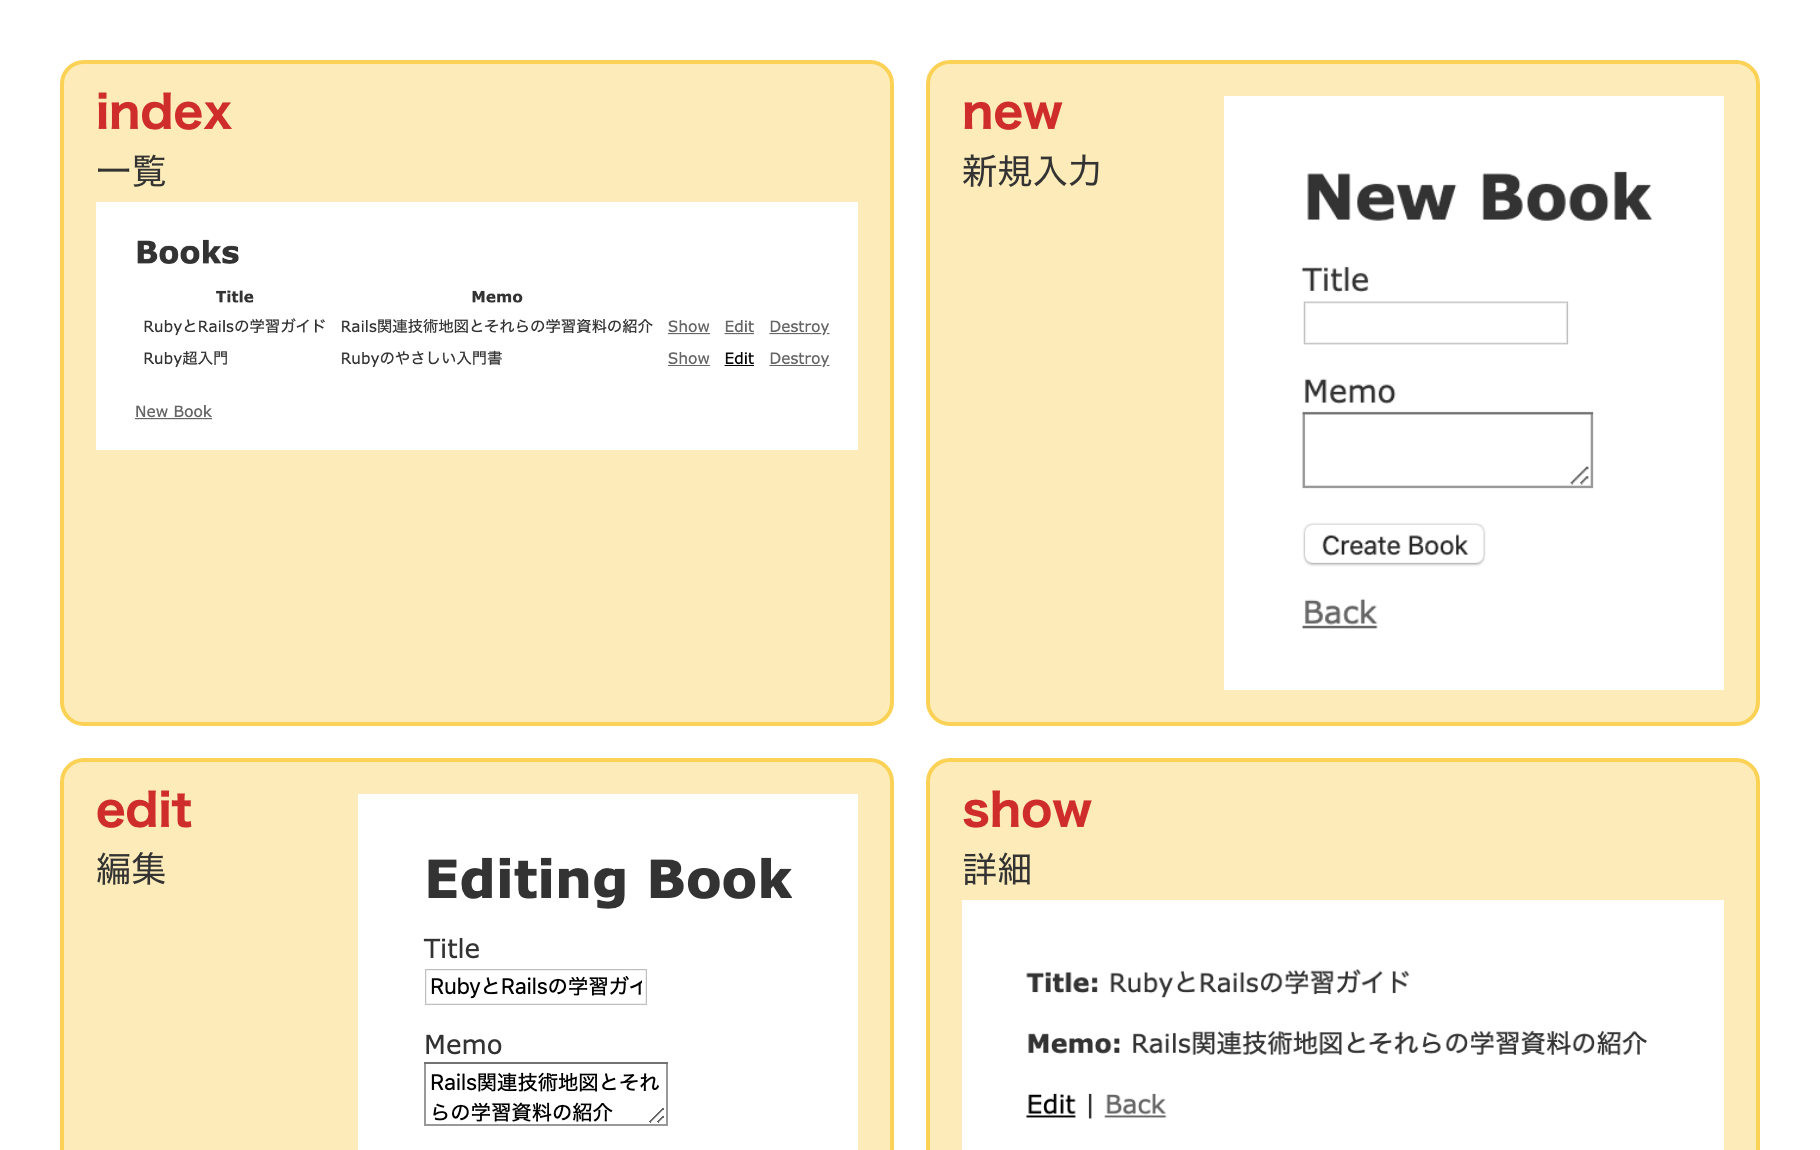
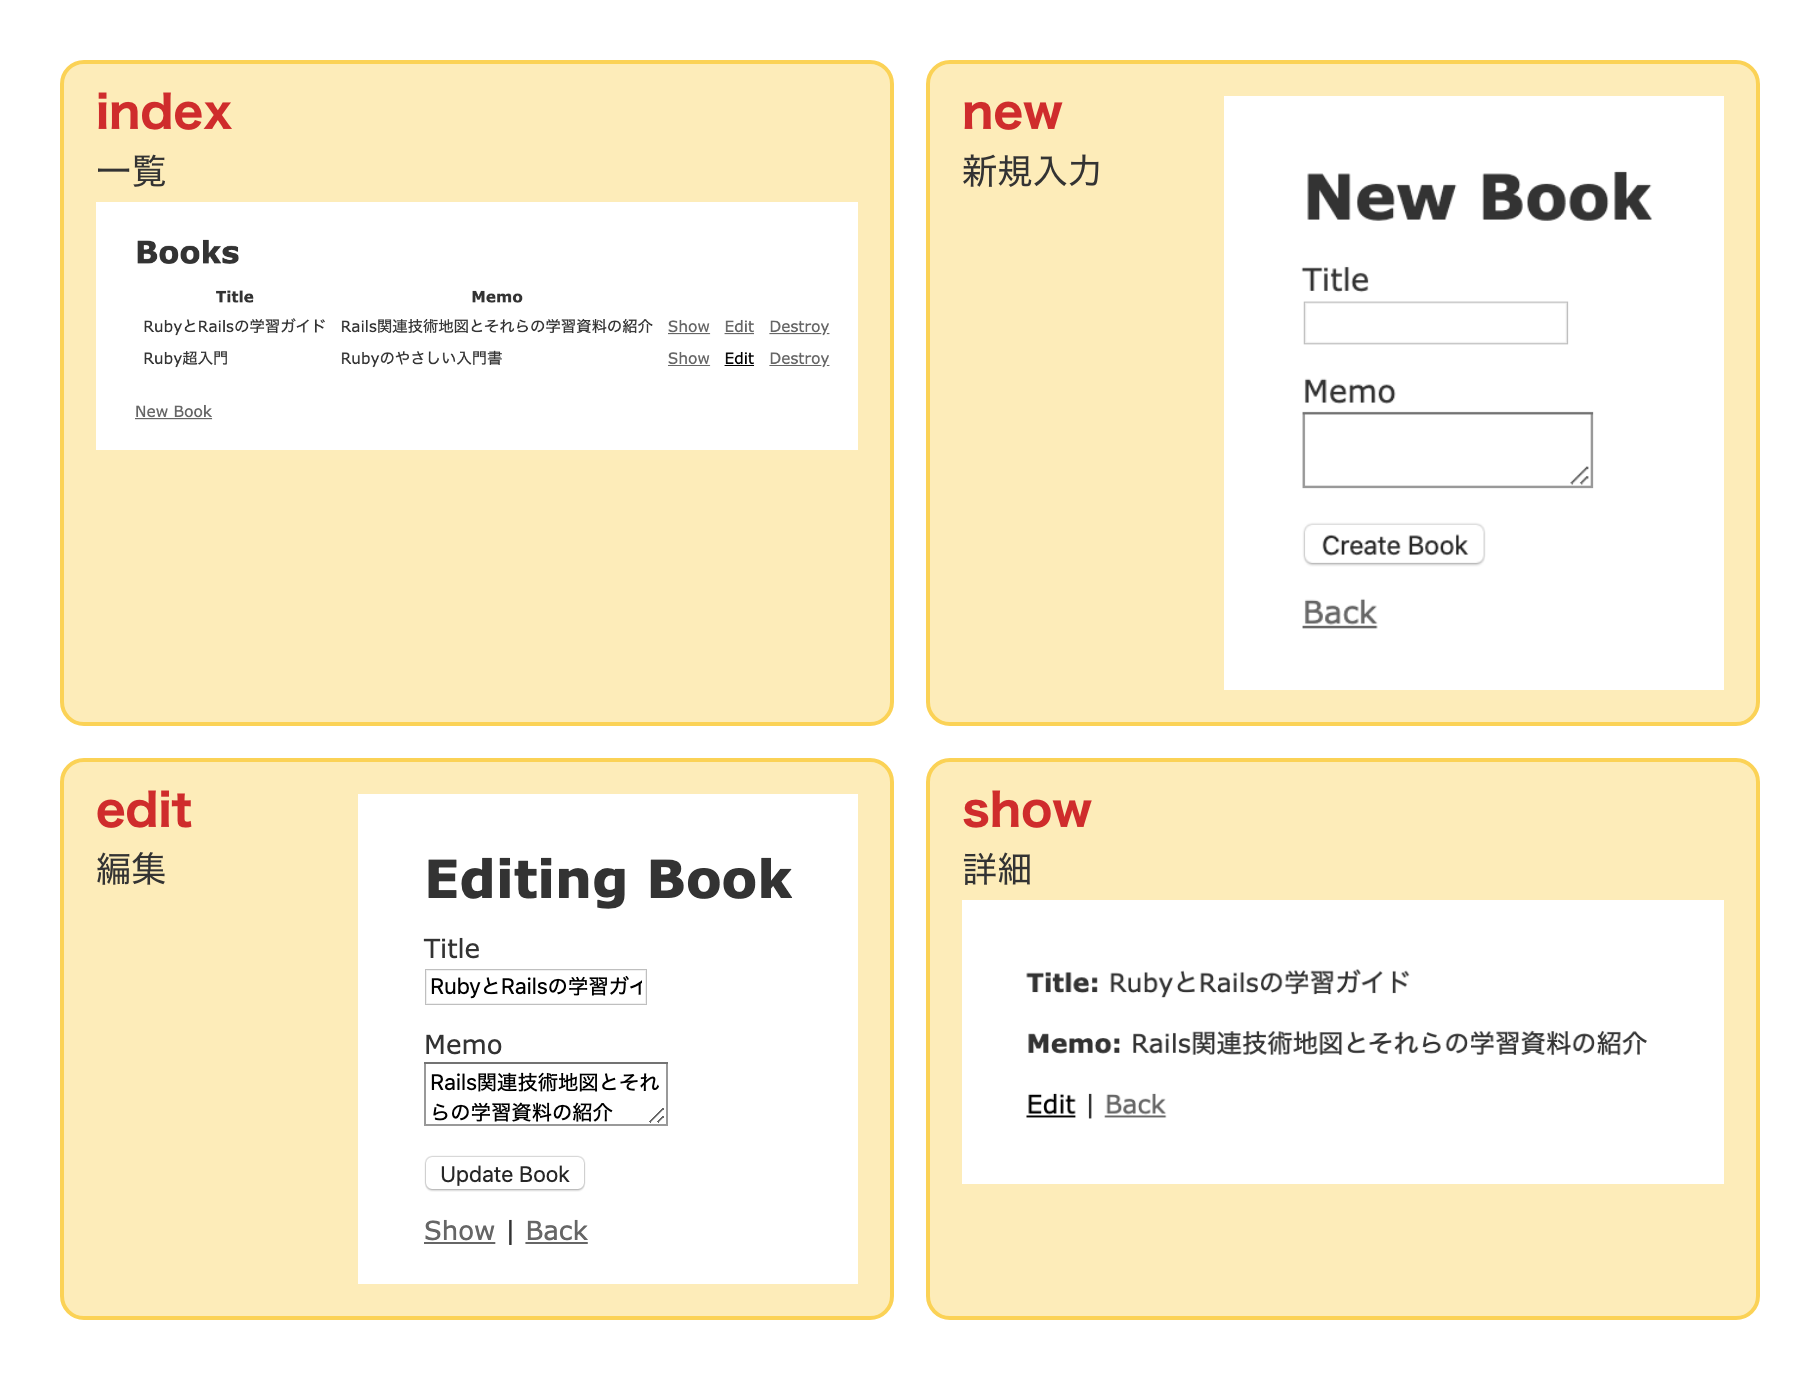
Fix cropping size of crud_4_pages

diff --git a/_figures/scripts/html_figures/cropper.rb b/_figures/scripts/html_figures/cropper.rb
@@ -4,7 +4,7 @@ class Cropper
     dir_name, file_name = file_path.split("/").last(2)
     wh = {
       "crud" => {
-        "crud_4_pages.png" => [1820, 1150],
+        "crud_4_pages.png" => [1820, 1380],
         "index_flow.png" => [1320, 1000],
         "index_flow_controller.png" => [1320, 1000],
         "index_flow_routes.png" => [1320, 1000],
